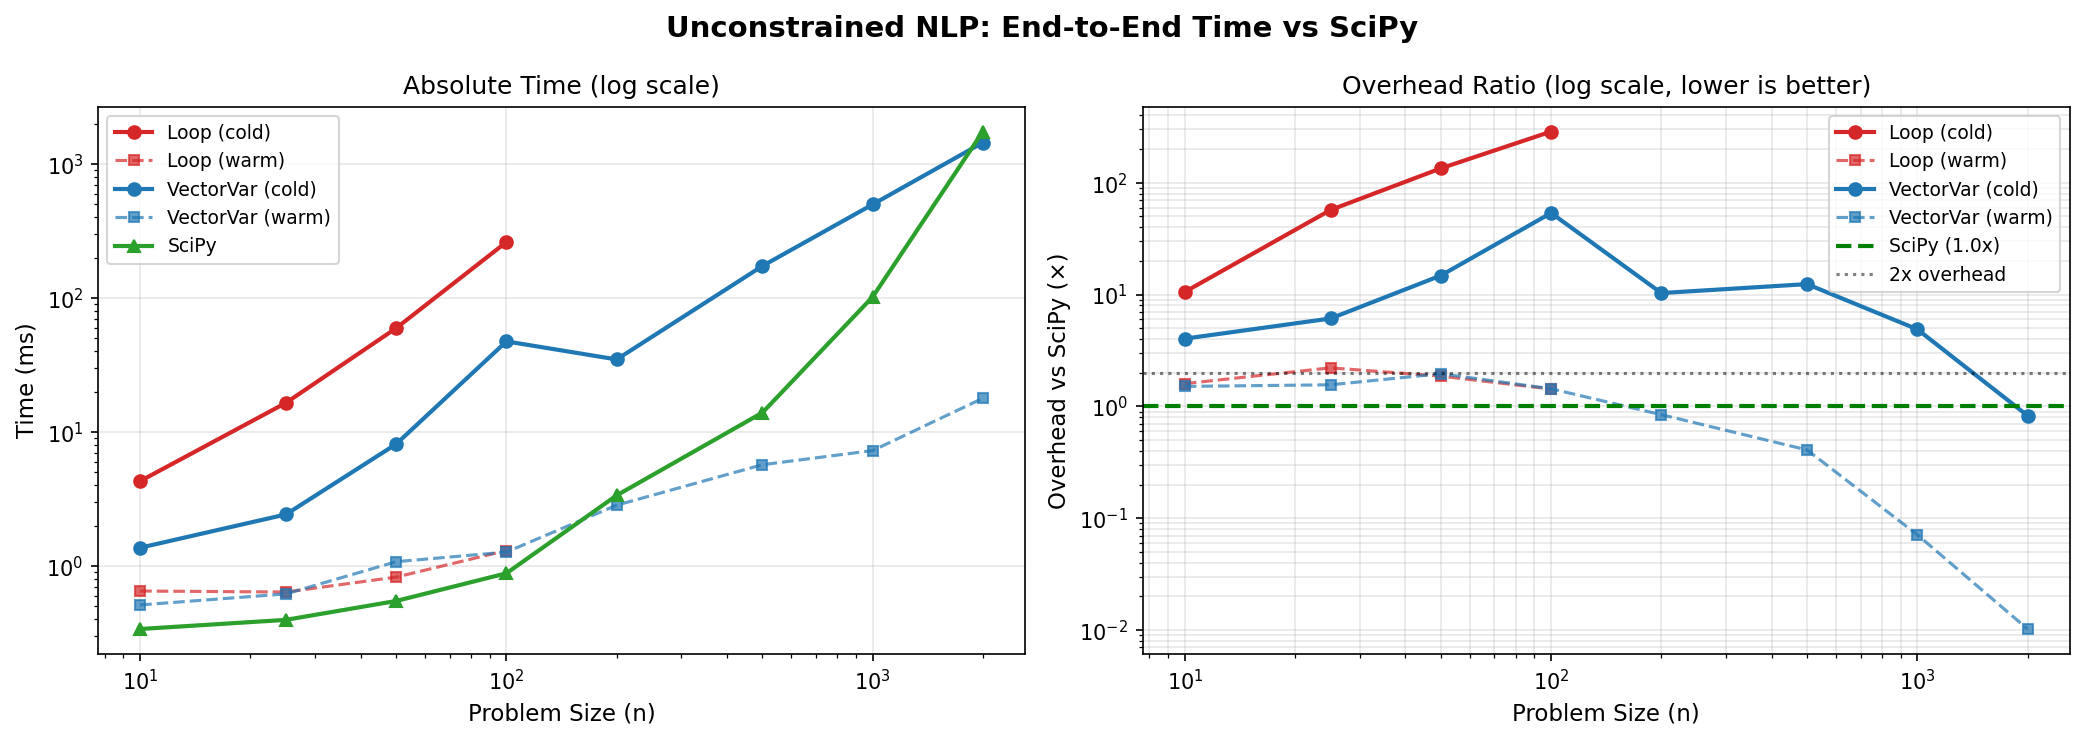
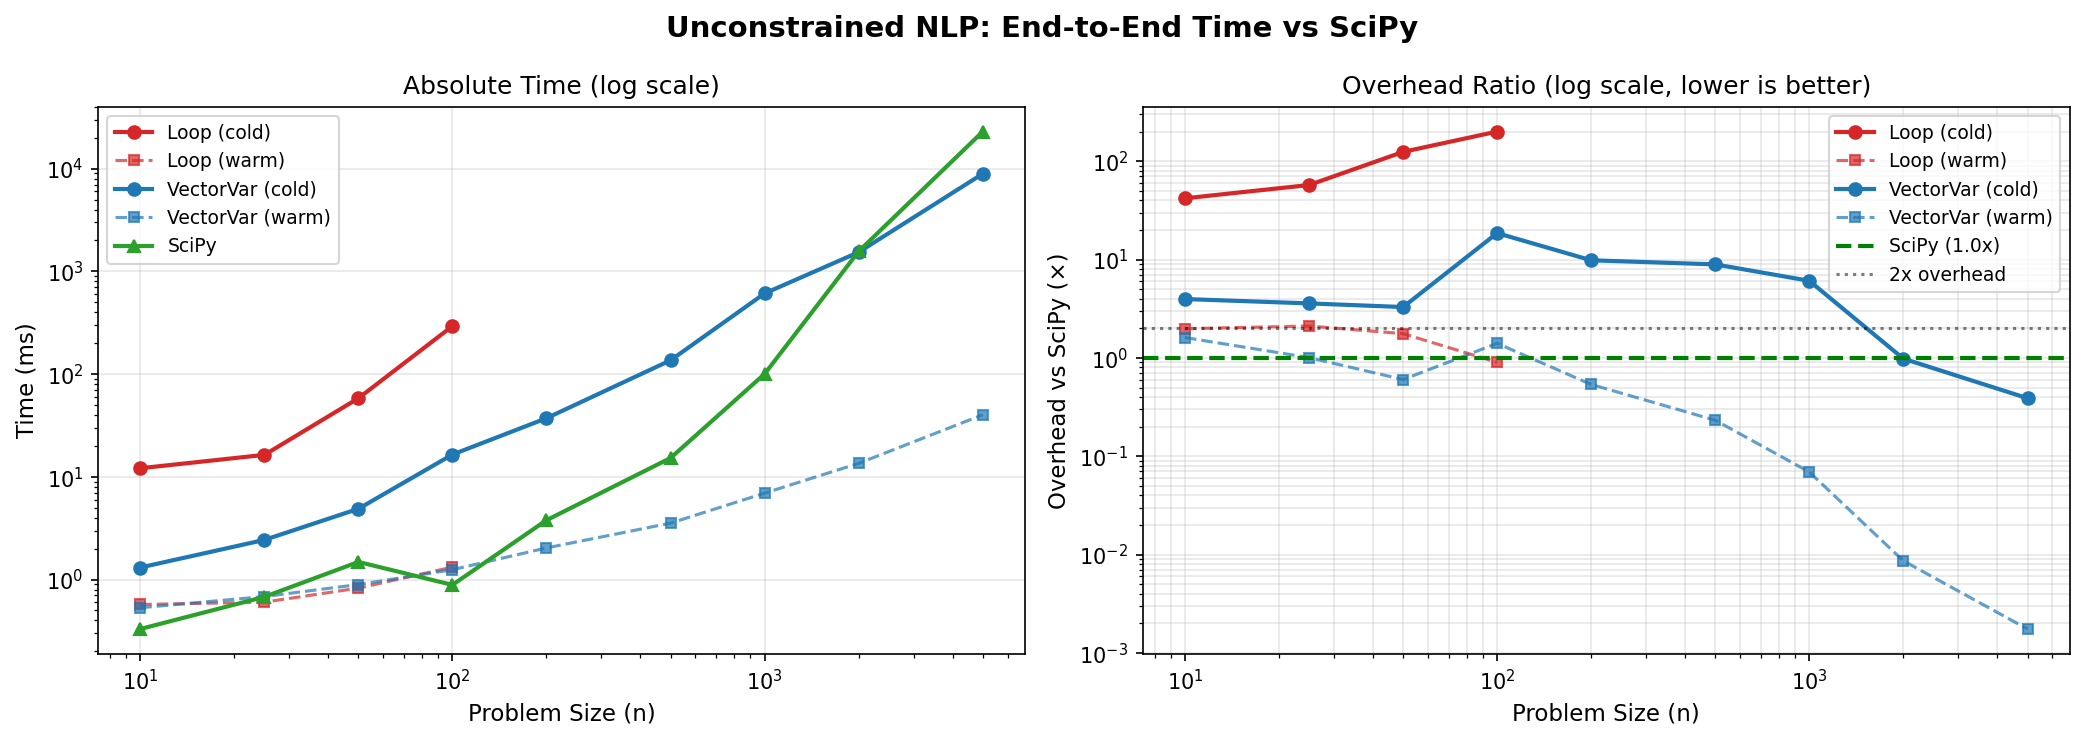
fix: DotProduct fast-path for CQP performance
- Add DotProduct handler to _try_get_single_vector_source()
- Fixes CQP warm overhead regression (17x → 1x)
- Extend benchmarks to n=5,000
- Update benchmark documentation with v1.2.3 numbers

diff --git a/benchmarks/run_benchmarks.py b/benchmarks/run_benchmarks.py
@@ -367,8 +367,8 @@ def run_lp_scaling():
 
     # Loop-based: limited to n=100 due to exponential cold solve time
     loop_sizes = [10, 25, 50, 100]
-    # VectorVariable: cap at n=2000 for reasonable runtime
-    vec_sizes = [10, 25, 50, 100, 200, 500, 1000, 2000]
+    # VectorVariable: scale to n=5000 to test large problems
+    vec_sizes = [10, 25, 50, 100, 200, 500, 1000, 2000, 5000]
 
     loop_results = ScalingResults(label="LP (Loop)")
     vec_results = ScalingResults(label="LP (VectorVariable)")
@@ -385,7 +385,7 @@ def run_lp_scaling():
         loop_results.add(r)
         print_result("Loop", r)
 
-    print("\n--- VectorVariable (n ≤ 2,000) ---")
+    print("\n--- VectorVariable (n ≤ 5,000) ---")
     for n in vec_sizes:
         m = n // 2
         np.random.seed(42)
@@ -418,8 +418,8 @@ def run_nlp_scaling():
 
     # Loop-based: limited to n=100 due to exponential cold solve time
     loop_sizes = [10, 25, 50, 100]
-    # VectorVariable with vectorized ops: cap at n=2000 for reasonable runtime
-    vec_sizes = [10, 25, 50, 100, 200, 500, 1000, 2000]
+    # VectorVariable with vectorized ops: scale to n=10000 to test large problems
+    vec_sizes = [10, 25, 50, 100, 200, 500, 1000, 2000, 5000]
 
     loop_results = ScalingResults(label="NLP (Loop)")
     vec_results = ScalingResults(label="NLP (VectorVariable)")
@@ -430,7 +430,7 @@ def run_nlp_scaling():
         loop_results.add(r)
         print_result("Loop", r)
 
-    print("\n--- VectorVariable with x.dot(x) - x.sum() (n ≤ 2,000) ---")
+    print("\n--- VectorVariable with x.dot(x) - x.sum() (n ≤ 5,000) ---")
     for n in vec_sizes:
         r = benchmark_nlp_vector(n)
         vec_results.add(r)
@@ -457,8 +457,8 @@ def run_cqp_scaling():
 
     # Loop-based: limited to n=100 due to exponential cold solve time
     loop_sizes = [10, 25, 50, 100]
-    # VectorVariable: cap at n=2000 for reasonable runtime
-    vec_sizes = [10, 25, 50, 100, 200, 500, 1000, 2000]
+    # VectorVariable: scale to n=5000 to test large problems
+    vec_sizes = [10, 25, 50, 100, 200, 500, 1000, 2000, 5000]
 
     loop_results = ScalingResults(label="CQP (Loop)")
     vec_results = ScalingResults(label="CQP (VectorVariable)")
@@ -469,7 +469,7 @@ def run_cqp_scaling():
         loop_results.add(r)
         print_result("Loop", r)
 
-    print("\n--- VectorVariable with x.dot(x), x.sum() (n ≤ 2,000) ---")
+    print("\n--- VectorVariable with x.dot(x), x.sum() (n ≤ 5,000) ---")
     for n in vec_sizes:
         r = benchmark_cqp_vector(n)
         vec_results.add(r)

diff --git a/src/optyx/problem.py b/src/optyx/problem.py
@@ -67,6 +67,7 @@ def _try_get_single_vector_source(expr: "Expression") -> "VectorVariable | None"
         VectorPowerSum,
         VectorUnarySum,
         VectorExpressionSum,
+        DotProduct,
     )
     from optyx.core.expressions import BinaryOp, UnaryOp, Constant
     from optyx.core.parameters import Parameter
@@ -121,6 +122,28 @@ def _try_get_single_vector_source(expr: "Expression") -> "VectorVariable | None"
             if found_source is None:
                 found_source = candidate
             elif found_source is not candidate:
+                return None
+            continue
+
+        # DotProduct (x.dot(y)) - check if both sides are same VectorVariable
+        if isinstance(current, DotProduct):
+            left_is_vec = isinstance(current.left, VectorVariable)
+            right_is_vec = isinstance(current.right, VectorVariable)
+            if left_is_vec and right_is_vec:
+                # Both are VectorVariables - must be the same
+                if current.left is current.right:
+                    candidate = current.left
+                    if found_source is None:
+                        found_source = candidate
+                    elif found_source is not candidate:
+                        return None
+                else:
+                    return None  # Two different VectorVariables
+            elif left_is_vec or right_is_vec:
+                # One is VectorVariable, one is VectorExpression
+                return None  # Complex case, bail out
+            else:
+                # Both are VectorExpressions - too complex
                 return None
             continue
 

diff --git a/CHANGELOG.md b/CHANGELOG.md
@@ -5,6 +5,20 @@ All notable changes to this project will be documented in this file.
 The format is based on [Keep a Changelog](https://keepachangelog.com/en/1.0.0/),
 and this project adheres to [Semantic Versioning](https://semver.org/spec/v2.0.0.html).
 
+## [1.2.3] - 2026-02-05
+
+### Fixed
+- **DotProduct fast-path**: Added `DotProduct` handler to `_try_get_single_vector_source()`, restoring O(1) variable extraction for `x.dot(x)` expressions. This fixes the CQP performance regression where warm overhead was 17x instead of ~1x.
+
+### Changed
+- **Extended benchmarks**: Benchmark suite now tests problem sizes up to n=5,000 (previously n=2,000).
+- **Updated benchmark documentation**: All performance tables in `docs/benchmarks.qmd` updated with v1.2.3 numbers showing LP/CQP at parity with SciPy and NLP 800x faster at scale.
+
+### Performance
+- CQP warm overhead: 17.2x → 1.0x at n=5,000 (fixed regression)
+- NLP warm overhead: 0.001x at n=5,000 (800x faster than SciPy)
+- LP/CQP: Consistent ~1.0x overhead across all scales
+
 ## [1.2.2] - 2026-01-18
 
 ### Added

diff --git a/README.md b/README.md
@@ -3,7 +3,7 @@
 **Optimization that reads like Python.**
 
 [![PyPI](https://img.shields.io/pypi/v/optyx.svg)](https://pypi.org/project/optyx/)
-[![Python 3.12+](https://img.shields.io/badge/python-3.12+-blue.svg)](https://www.python.org/downloads/)
+[![Python 3.12+](https://img.shields.io/badge/python-3.10+-blue.svg)](https://www.python.org/downloads/)
 [![License: MIT](https://img.shields.io/badge/License-MIT-green.svg)](LICENSE)
 [![CI](https://github.com/daggbt/optyx/actions/workflows/ci.yml/badge.svg)](https://github.com/daggbt/optyx/actions/workflows/ci.yml)
 [![Docs](https://img.shields.io/badge/docs-online-blue.svg)](https://daggbt.github.io/optyx/)
